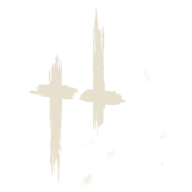
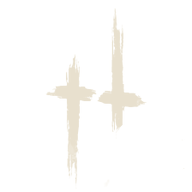
Add files via upload

Changed region(s): [[0.1562, 0.0625, 0.75, 0.9375]]

diff --git a/Ui.cs b/Ui.cs
@@ -22,7 +22,7 @@ static class Theme
 static class Ui
 {
     /// <summary>Общий масштаб интерфейса (1.0 = исходный размер, 1.5 = +50%).</summary>
-    public const float Zoom = 1.5f;
+    public const float Zoom = 1.0f;
 
     public static int Z(int v) => (int)Math.Round(v * Zoom);
     public static Font Fnt(string name, float pt, FontStyle style = FontStyle.Regular) => new(name, pt * Zoom, style);
